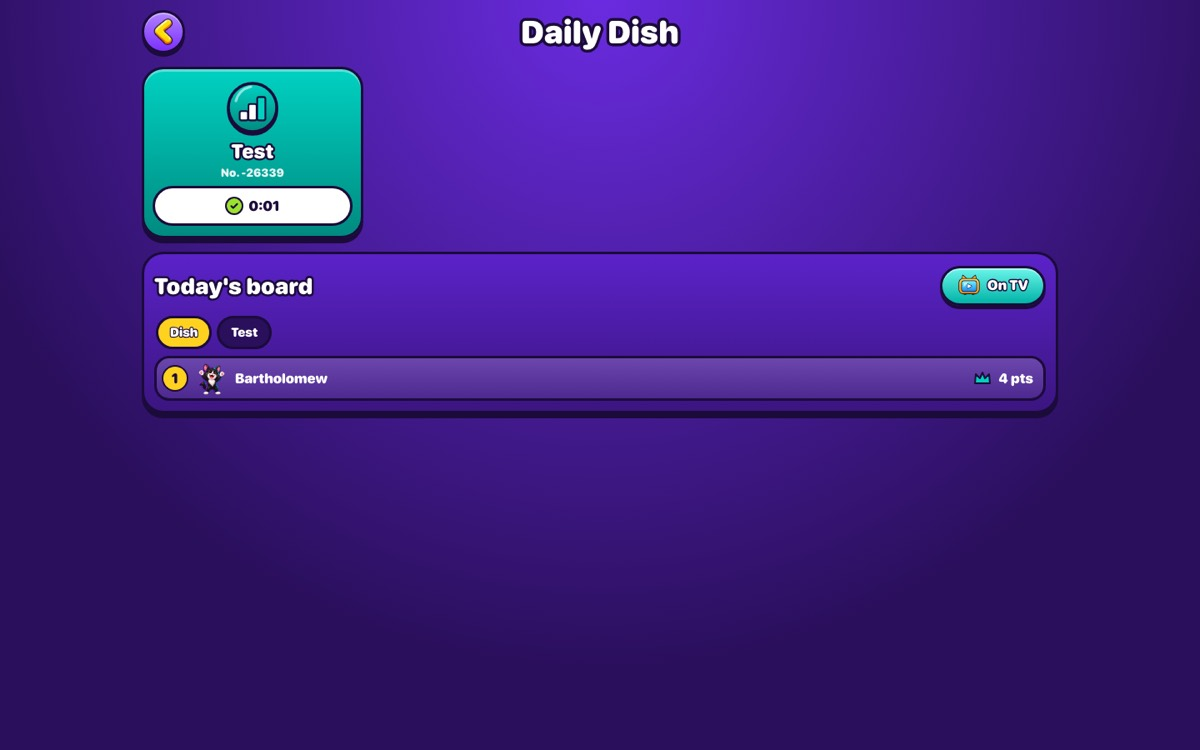
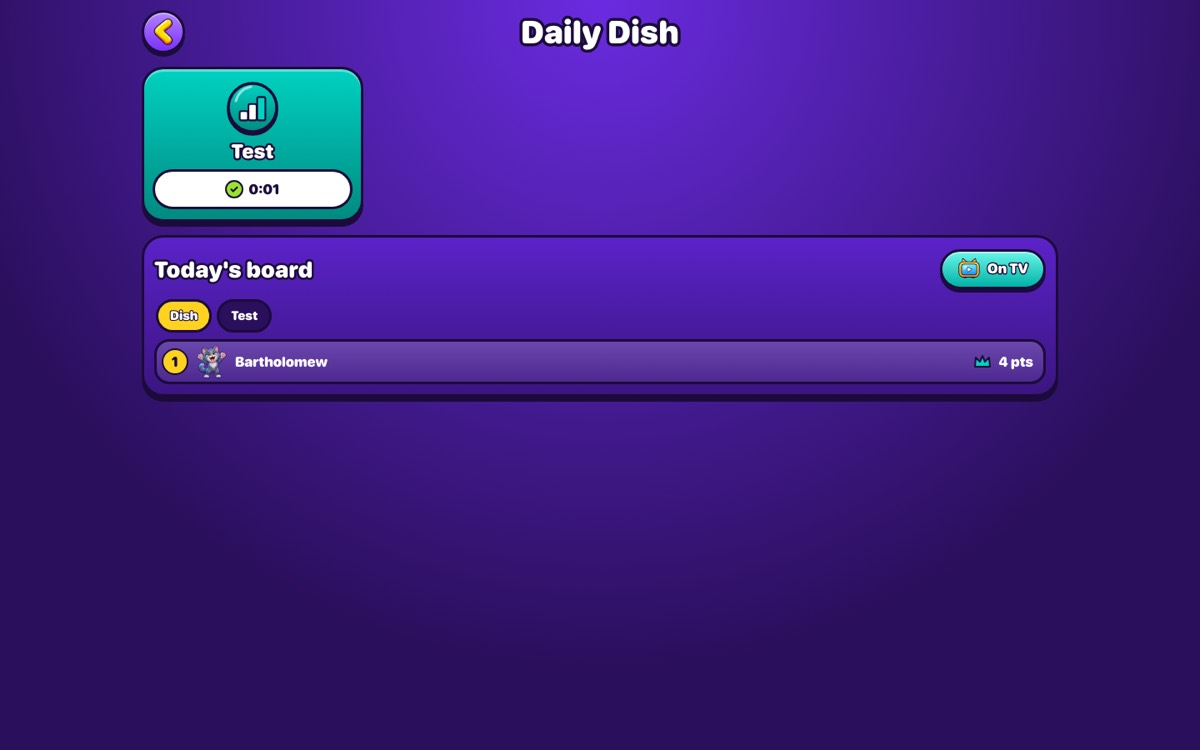
fix(daily-web): no puzzle number before launch day
Numbers count from launch day, so until the server's LAUNCH is set they
are negative: the cards, the host's bar, the share text, the card and its
file name leave the number out below 1.

Changed region(s): [[0.0925, 0.2147, 0.8942, 0.5827]]

diff --git a/apps/play-web/src/daily/share.ts b/apps/play-web/src/daily/share.ts
@@ -6,7 +6,7 @@
  *
  * Kittens never share: the caller doesn't offer it (no links out from an under-13's device).
  */
-import { shareText, SHARE_URL } from "./format";
+import { puzzleName, shareText, SHARE_URL } from "./format";
 
 import type { ShareGrid } from "./host";
 import type { DailyResult } from "@pounce/play-api/daily/module";
@@ -14,8 +14,8 @@ import type { DailyResult } from "@pounce/play-api/daily/module";
 /** What the worker draws. Plain values only. */
 export type CardRequest = {
   id: number;
+  /** "Sniff 12", or "Sniff" before launch day (`puzzleName`). */
   title: string;
-  number: number;
   words: string;
   hints: number;
   color: string;
@@ -42,7 +42,7 @@ let next = 0;
 const waiting = new Map<number, (png: Blob | null) => void>();
 
 /** The card as a PNG, drawn off the rendering thread; null where the browser can't (no OffscreenCanvas). */
-export function renderCard(card: Omit<CardRequest, "id" | "font">): Promise<Blob | null> {
+export function renderCard(card: Omit<CardRequest, "id" | "font" | "title"> & { title: string; number: number }): Promise<Blob | null> {
   if (typeof Worker === "undefined" || typeof OffscreenCanvas === "undefined") return Promise.resolve(null);
   if (!worker) {
     worker = new Worker(new URL("../workers/share-card.worker.ts", import.meta.url), { type: "module", name: "share-card" });
@@ -59,7 +59,8 @@ export function renderCard(card: Omit<CardRequest, "id" | "font">): Promise<Blob
   const font = new URL("@fontsource/nunito/files/nunito-latin-900-normal.woff2", import.meta.url).href;
   return new Promise((resolve) => {
     waiting.set(id, resolve);
-    worker!.postMessage({ ...card, id, font } satisfies CardRequest);
+    const { number, ...rest } = card;
+    worker!.postMessage({ ...rest, title: puzzleName(card.title, number), id, font } satisfies CardRequest);
   });
 }
 
@@ -77,7 +78,7 @@ export async function shareResult(
 ): Promise<"shared" | "copied" | "cancelled" | "failed"> {
   const text = shareText(title, result);
   if (typeof nav.share === "function") {
-    const file = png ? new File([png], `${title.toLowerCase().replace(/\s+/g, "-")}-${result.number}.png`, { type: "image/png" }) : null;
+    const file = png ? new File([png], `${puzzleName(title, result.number).toLowerCase().replace(/\s+/g, "-")}.png`, { type: "image/png" }) : null;
     const withFile = file && typeof nav.canShare === "function" && nav.canShare({ files: [file] }) ? { files: [file] } : {};
     try {
       await nav.share({ text, url: SHARE_URL, ...withFile });

diff --git a/apps/play-web/tests/daily-format.test.ts b/apps/play-web/tests/daily-format.test.ts
@@ -1,6 +1,6 @@
 import { describe, expect, test } from "vitest";
 
-import { clock, ordinal, placeWords, resultWords, shareText } from "../src/daily/format";
+import { clock, ordinal, placeWords, puzzleName, puzzleNumber, resultWords, shareText } from "../src/daily/format";
 
 import type { DailyResult } from "@pounce/play-api/daily/module";
 
@@ -30,6 +30,17 @@ describe("the Dish's words", () => {
     expect(shareText("Nine Lives", { ...base, hints: 1 })).toBe("Nine Lives 3: 4:05, 1 hint");
     expect(shareText("Cat Nap", { ...base, game: "cat-nap", hints: 2 })).toBe("Cat Nap 3: 4:05, 2 hints");
     expect(shareText("Box Fort", { ...base, game: "box-fort", outcome: "done", points: 980 })).toBe("Box Fort 3: 980 points");
+  });
+
+  test("a puzzle number below 1 (before launch day) is never shown", () => {
+    expect(puzzleNumber(12)).toBe("12");
+    expect(puzzleNumber(1)).toBe("1");
+    expect(puzzleNumber(0)).toBeNull();
+    expect(puzzleNumber(-26339)).toBeNull();
+    expect(puzzleName("Sniff", 12)).toBe("Sniff 12");
+    expect(puzzleName("Sniff", -26339)).toBe("Sniff");
+    expect(shareText("Sniff", { ...base, game: "sniff", number: -26339, guesses: 4 })).toBe("Sniff: 4 of 6");
+    expect(shareText("Nine Lives", { ...base, number: 0, hints: 1 })).toBe("Nine Lives: 4:05, 1 hint");
   });
 
   test("places", () => {

diff --git a/apps/play-web/e2e/daily.spec.ts b/apps/play-web/e2e/daily.spec.ts
@@ -100,7 +100,7 @@ test("Share sends the card image, the words and the Dish's link", async ({ brows
     .poll(() => page.evaluate(() => (window as unknown as { __shared?: unknown }).__shared ?? null))
     .not.toBeNull()
     .then(() => page.evaluate(() => (window as unknown as { __shared: unknown }).__shared))) as { text: string; url: string; files: { name: string; type: string; size: number }[] };
-  expect(shared.text).toMatch(/^Test -?\d+: 0:0\d$/);
+  expect(shared.text).toMatch(/^Test: 0:0\d$/);
   expect(shared.url).toBe("https://play.conleychaos.com/daily");
   expect(shared.files[0]?.type).toBe("image/png");
   expect(shared.files[0]?.size).toBeGreaterThan(5000);
@@ -119,7 +119,7 @@ test("without Web Share, Share copies the words and the link", async ({ browser 
   await countToTheEnd(page);
   await page.getByRole("button", { name: "Share" }).click();
   await expect(page.getByText("Copied")).toBeVisible();
-  expect(await page.evaluate(() => (window as unknown as { __copied: string }).__copied)).toMatch(/^Test -?\d+: 0:0\d https:\/\/play\.conleychaos\.com\/daily$/);
+  expect(await page.evaluate(() => (window as unknown as { __copied: string }).__copied)).toMatch(/^Test: 0:0\d https:\/\/play\.conleychaos\.com\/daily$/);
   await closeAll(bo.context);
 });
 

diff --git a/apps/play-web/src/daily/play.tsx b/apps/play-web/src/daily/play.tsx
@@ -18,7 +18,7 @@ import { TvIcon } from "../ui/show-on-tv";
 import { dailyPath, startRun, type Run } from "./client";
 import { dishGames } from "./dish-home";
 import { dishStore, myRow, useDish } from "./dish-store";
-import { clock, placeWords, resultWords } from "./format";
+import { clock, placeWords, puzzleNumber, resultWords } from "./format";
 import { DAILY_WEB_GAMES } from "./registry";
 import { renderCard, shareResult } from "./share";
 import { StatsSheet } from "./stats";
@@ -209,7 +209,7 @@ export function PuzzleHost(props: { game: DailyGameId; say: (words: string) => v
         <IconButton icon="icon-back" label="Dish" onClick={() => navigate({ kind: "dish" })} />
         <div class="dd-play-title">
           <h1 class="outlined">
-            {look.title} <span class="dd-num">{run ? run.start.number : ""}</span>
+            {look.title} {run && puzzleNumber(run.start.number) ? <span class="dd-num">{puzzleNumber(run.start.number)}</span> : null}
           </h1>
           {run ? <Clock run={run} /> : null}
         </div>

diff --git a/apps/play-web/src/daily/format.ts b/apps/play-web/src/daily/format.ts
@@ -36,10 +36,22 @@ export function resultWords(r: DailyResult): string {
   }
 }
 
+/**
+ * A puzzle's number as shown, or null when it's below 1: numbers count from launch day, so before
+ * it (the server's `LAUNCH` still a placeholder) they're negative, and never shown.
+ */
+export const puzzleNumber = (n: number): string | null => (n >= 1 ? String(n) : null);
+
+/** "Sniff 12", or just "Sniff" while its number isn't shown. */
+export function puzzleName(title: string, n: number): string {
+  const shown = puzzleNumber(n);
+  return shown ? `${title} ${shown}` : title;
+}
+
 /** "Sniff 12: 4 of 6", "Nine Lives 3: 4:05, 1 hint". */
 export function shareText(title: string, r: DailyResult): string {
   const hints = r.hints > 0 && typeof r.guesses !== "number" && typeof r.points !== "number" ? `, ${r.hints} ${r.hints === 1 ? "hint" : "hints"}` : "";
-  return `${title} ${r.number}: ${resultWords(r)}${hints}`;
+  return `${puzzleName(title, r.number)}: ${resultWords(r)}${hints}`;
 }
 
 export function ordinal(n: number): string {

diff --git a/apps/play-web/src/daily/dish.tsx b/apps/play-web/src/daily/dish.tsx
@@ -14,7 +14,7 @@ import { BoardView } from "./board";
 import { BoardTvSheet, unlinkBoard } from "./board-tv";
 import { dishGames } from "./dish-home";
 import { bestRow, dishStore, myRow, useDish } from "./dish-store";
-import { resultWords } from "./format";
+import { puzzleNumber, resultWords } from "./format";
 import { StatsSheet } from "./stats";
 import { lookOf, Treat } from "./treats";
 
@@ -36,7 +36,7 @@ function DishCard(props: { game: DailyGameId; board: BoardAnswer; first: boolean
       <Treat game={game} size={64} />
       <div class="dd-card-body">
         <h3 class="outlined">{look.title}</h3>
-        <span class="dd-num">No. {number}</span>
+        {puzzleNumber(number) ? <span class="dd-num">No. {puzzleNumber(number)}</span> : null}
         {best && best.player !== "me" ? (
           <span class="dd-best">
             <Cat cat={best.cat} size={22} />

diff --git a/apps/play-web/src/workers/share-card.worker.ts b/apps/play-web/src/workers/share-card.worker.ts
@@ -90,7 +90,7 @@ async function draw(req: CardRequest): Promise<Blob> {
     ctx.fillStyle = "#fff";
     ctx.fillText(text, 540, y, 980);
   };
-  outlined(`${req.title} ${req.number}`, 150, 110);
+  outlined(req.title, 150, 110);
   outlined(req.words, 320, req.words.length > 12 ? 120 : 170);
   if (req.hints > 0) outlined(req.hints === 1 ? "1 hint" : `${req.hints} hints`, 440, 60);
 
